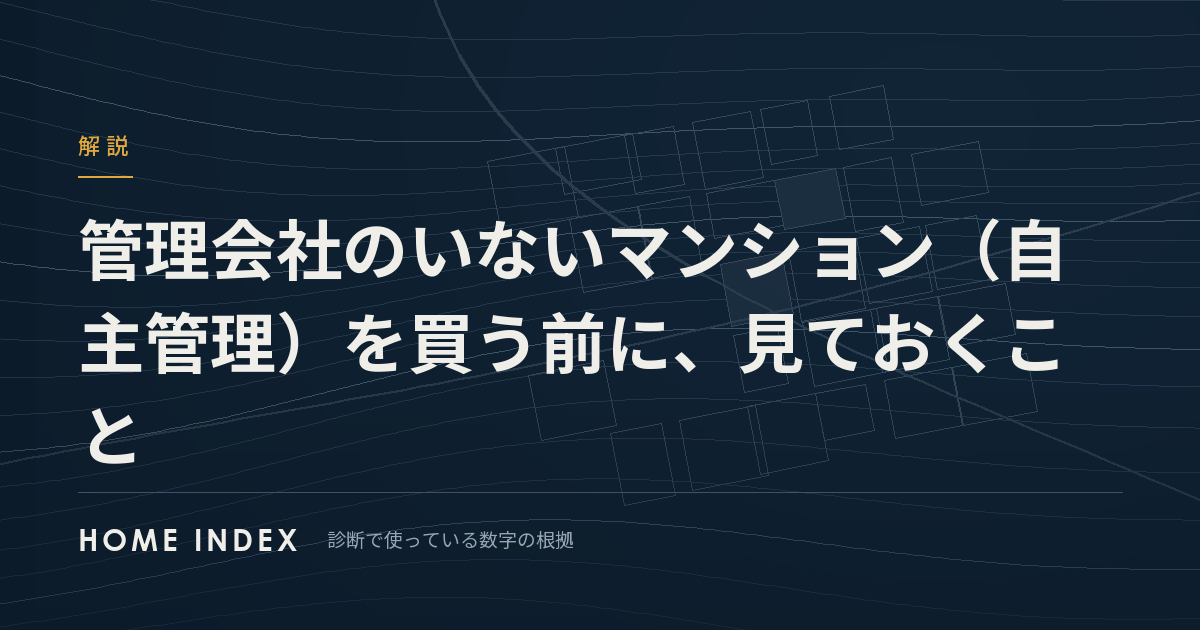
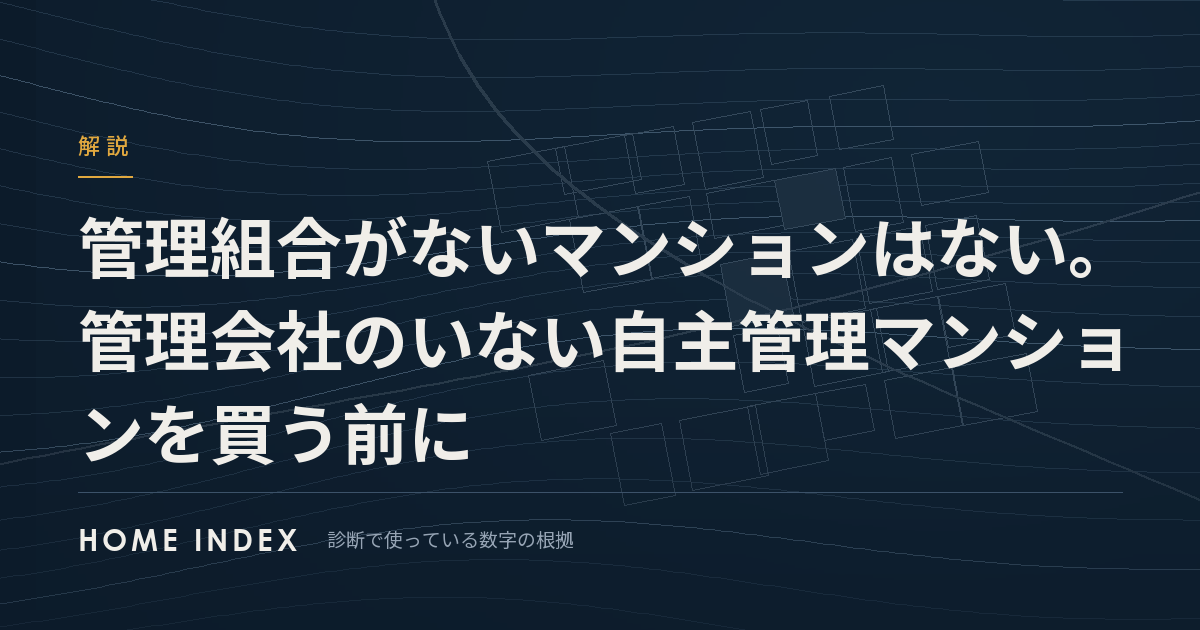
Use the words people search with in five article titles
Search Console shows these articles ranking for queries their titles
did not answer: "想定浸水深" and "浸水深とは" at 6-11 with no clicks,
"管理組合 ない マンション" around 75-83, "災害レッドゾーン" and
"レッドゾーンとは" at 53-87, "新耐震基準 いつから" at 65, and the
FLAT35 "年収400万円未満 30%" queries at 8-11 with no clicks.

Retitle the flood, self-managed flat, seismic-standard and repayment
ratio articles and rewrite their descriptions in those words. The
sediment article keeps its title and gains a short section on MLIT's
"災害レッドゾーン", which is wider than the sediment red zone: the
zones in 都市計画法33条1項8号 and 施行令23条の2, checked on e-Gov,
excluded from development other than one's own home since 2022-04-01.

Changed region(s): [[0.0617, 0.4825, 0.9558, 0.6032], [0.0617, 0.3317, 0.925, 0.4524], [0.0617, 0.6333, 0.4008, 0.754]]

diff --git a/src/guides.py b/src/guides.py
@@ -175,19 +175,20 @@ _FLOOD = Guide(
     slug="kouzui-shinsui-fukasa",
     cta2_href="/land",
     cta2_text="土地を診断する（注文住宅）",
-    title="洪水ハザードの浸水深は6段階。0.5mと3mでは意味が違います",
+    title="想定浸水深とは。ハザードマップの0.5mと3mの意味と、6つの区分",
     description=(
-        "洪水浸水想定区域の浸水深は6段階に分かれます。0.5m未満と3m以上では"
-        "備え方も違います。区分の中身と、重要事項説明で説明されること・"
-        "されないこと、この診断での減点の付け方をまとめました。"),
+        "想定浸水深は、洪水で浸水したときの地面から水面までの深さです。ハザード"
+        "マップでは0.5m未満から20m以上まで6段階に分かれ、0.5m未満と3m以上では"
+        "備え方も違います。重要事項説明で説明されること・されないこと、この診断での"
+        "減点の付け方をまとめました。"),
     published="2026-09-02",
-    updated="2026-10-19",
+    updated="2026-11-12",
     lead=(
-        "浸水深は、浸水したときの地面から水面までの深さです。ハザードマップで色が"
+        "想定浸水深は、浸水したときの地面から水面までの深さです。ハザードマップで色が"
         "付いていた、というだけでは判断材料になりません。洪水浸水想定区域は浸水の深さで"
         "6段階に分かれていて、<b>0.5m未満と3m以上とでは、意味がまったく違います。</b>"),
 body="""
-<h2>深さは6段階に分かれている</h2>
+<h2>想定浸水深は6段階に分かれている</h2>
 <p>この診断が見ているのは、国土交通省 不動産情報ライブラリの洪水浸水
 想定区域（想定最大規模）です。区域に入っているかどうかだけでなく、
 想定される浸水の深さが段階で付いています。</p>
@@ -338,13 +339,14 @@ _REPAIR_FUND = Guide(
 
 _SHIN_TAISHIN = Guide(
     slug="shin-taishin-kenchiku-kakunin",
-    title="新耐震かどうかは築何年で分かるか。境目は1981年6月の建築確認です",
+    title="新耐震基準はいつから？1981年6月1日の建築確認から。築何年かの目安も",
     description=(
-        "新耐震基準は1981年6月1日以降に建築確認を受けた建物です。2026年時点で、"
-        "築46年以上は旧耐震、築43〜45年は築年だけでは判定できず、築42年以下はほぼ新耐震です。"
-        "確かめ方と、住宅ローン控除での扱いもまとめました。"),
+        "新耐震基準は、1981年（昭和56年）6月1日以降に建築確認を受けた建物に"
+        "適用されます。2026年時点で、築46年以上は旧耐震、築43〜45年は築年だけでは"
+        "判定できず、築42年以下はほぼ新耐震です。確かめ方と、住宅ローン控除での"
+        "扱いもまとめました。"),
     published="2026-09-02",
-    updated="2026-10-19",
+    updated="2026-11-12",
     lead=(
         "「1982年築だから新耐震」とは、本当は言い切れません。基準になるのは"
         "竣工した日ではなく、<b>建築確認を受けた日</b>だからです。"
@@ -416,13 +418,13 @@ _SHIN_TAISHIN = Guide(
 
 _BURDEN = Guide(
     slug="hensai-futanritsu",
-    title="フラット35の返済負担率は30%と35%。年収400万円で線が変わります",
+    title="フラット35の返済負担率（返済比率）は、年収400万円未満30%・以上35%",
     description=(
         "フラット35の返済負担率（総返済負担率。返済比率とも）は、年収400万円未満なら30%以下、"
         "400万円以上なら35%以下です。返済額には自動車ローンなどほかの借入れも含みます。"
         "マンションの管理費の扱いと、この診断での見方をまとめました。"),
     published="2026-09-02",
-    updated="2026-10-23",
+    updated="2026-11-12",
     lead=(
         "返済負担率（返済比率とも言います）は、年間の返済額が年収の何％にあたるかです。基準は一つでは"
         "なく、<b>年収400万円を境に30%と35%で切り替わります。</b>"
@@ -872,9 +874,9 @@ _SEDIMENT = Guide(
     description=(
         "土砂災害警戒区域（イエローゾーン）と特別警戒区域（レッドゾーン）の違いは、"
         "建築と開発の制限があるかどうかです。指定する条文、重要事項説明での扱い、"
-        "この診断での減点の違いもまとめました。"),
+        "国交省のいう「災害レッドゾーン」の範囲、この診断での減点の違いもまとめました。"),
     published="2026-09-05",
-    updated="2026-10-19",
+    updated="2026-11-12",
     lead=(
         "違いは、建築の制限があるかどうかです。<b>警戒区域（イエローゾーン）には建築の"
         "制限がなく、特別警戒区域（レッドゾーン）にはあります。</b>色の違いは危険度の"
@@ -926,6 +928,23 @@ body="""
 <p>中古の家を買ってそのまま住むだけなら、これらは直接には効いてきません。
 効くのは建て替えと増築のときです。買う前に、いま建っている家を将来
 建て替えられるか、そのとき何が要るかを確かめてください。</p>
+
+<h2>「災害レッドゾーン」は、土砂の区域だけではない</h2>
+<p>国土交通省は、開発に向かない区域をまとめて「災害レッドゾーン」と呼んでいます。
+土砂災害特別警戒区域のレッドゾーンとは範囲が違い、次の区域が入ります。</p>
+<ul>
+<li>災害危険区域（建築基準法第39条第1項）</li>
+<li>地すべり防止区域（地すべり等防止法第3条第1項）</li>
+<li>土砂災害特別警戒区域（土砂災害防止法第9条第1項）</li>
+<li>浸水被害防止区域（特定都市河川浸水被害対策法第56条第1項）</li>
+<li>急傾斜地崩壊危険区域（都市計画法施行令第23条の2）</li>
+</ul>
+<p>都市計画法第33条第1項第8号は、自分が住む家を建てるため以外の開発行為では、
+開発区域にこれらの区域を原則として含めないことを、開発許可の基準にしています。
+この扱いは2022年（令和4年）4月1日から始まりました。</p>
+<p class="sub">出典：都市計画法第33条第1項第8号、同法施行令第23条の2（e-Gov）。
+国土交通省 報道発表「都市再生特別措置法等の一部を改正する法律の一部の施行期日を
+定める政令」等（「災害レッドゾーン」の呼び方と施行日）</p>
 
 <h2>名前の似た区域が、別の法律にもある</h2>
 <p>急傾斜地崩壊危険区域は、急傾斜地の崩壊による災害の防止に関する法律第3条
@@ -5078,13 +5097,14 @@ _JISHU_KANRI = Guide(
     slug="jishu-kanri-mansion",
     cta_href="/mansion",
     cta_text="マンションを診断する",
-    title="管理会社のいないマンション（自主管理）を買う前に、見ておくこと",
+    title="管理組合がないマンションはない。管理会社のいない自主管理マンションを買う前に",
     description=(
-        "自主管理のマンションでは、会計や修繕の段取りを区分所有者自身が担っています。"
-        "それだけで避ける必要はありませんが、確かめることが増えます。重要事項説明書で"
-        "見分ける欄、この診断の扱い、書類で確かめることをまとめました。"),
+        "「管理組合がないマンション」は、法律の上ではありません。区分所有者は全員で"
+        "管理組合（区分所有法第3条の団体）になるからです。管理会社がいないのは"
+        "自主管理です。重要事項説明書で見分ける欄、この診断の扱い、書類で確かめる"
+        "ことをまとめました。"),
     published="2026-10-18",
-    updated="2026-10-18",
+    updated="2026-11-12",
     lead=(
         "マンションの管理をするのは、もともと管理会社ではなく、区分所有者の団体である"
         "管理組合です。管理会社は、その仕事の一部か全部を委託された先にすぎません。"
